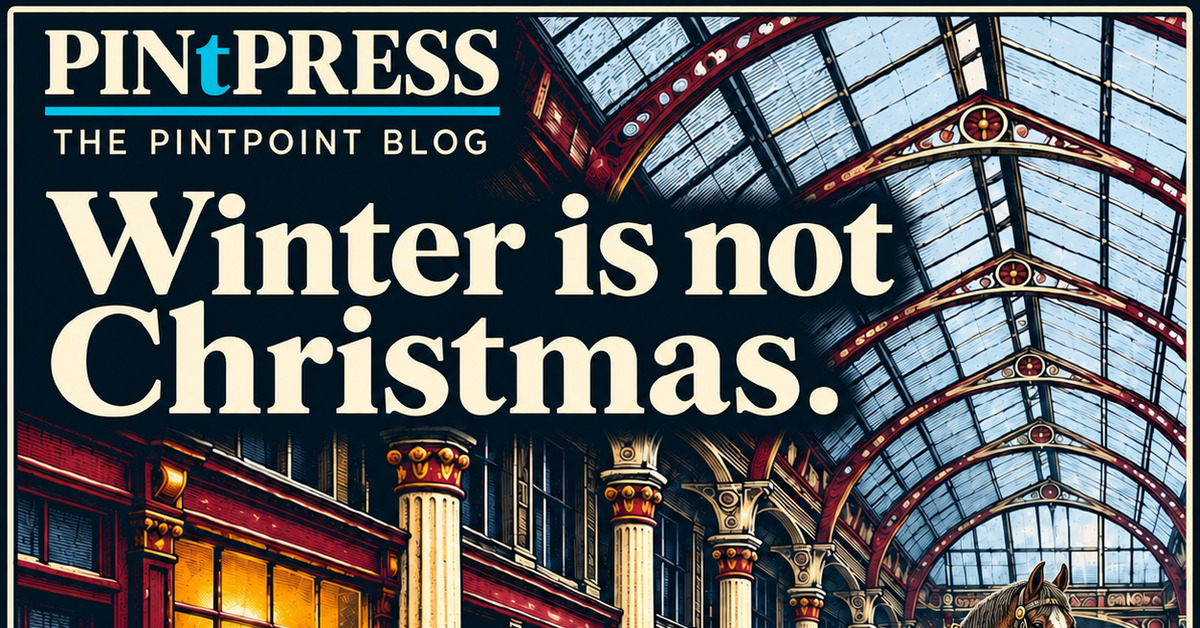
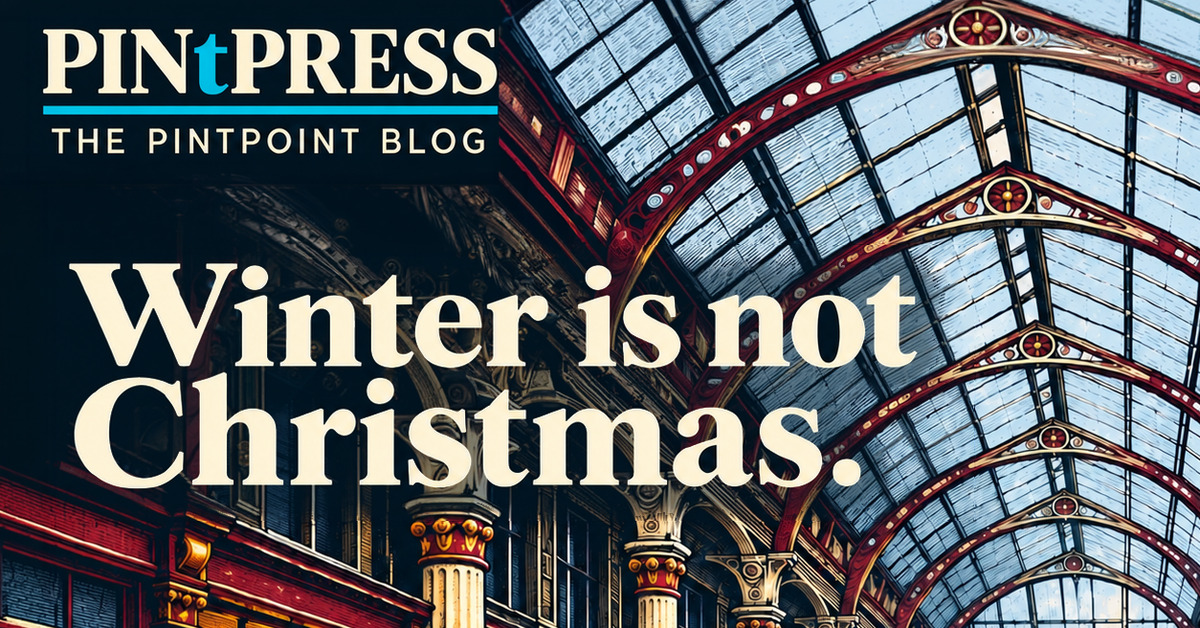
Winter is not Christmas: the Leadenhall version
Full bleed, no frame, which brings this card into line with J-Dag and
Green Man rather than being the only one with a cream rule. The border
questions from 1091d6b and 858deb6 are moot.

The composition drops, so the forced 1200x628 crop no longer catches
the horse head in the corner: the landscape is lockup, headline, roof
and columns, clean to every edge.

The alt goes back to describing the roof, the columns and the headline,
without the horse and cask. They are in the square, but og:image and
twitter:image both point at the landscape, and the landscape does not
contain them.

diff --git a/blog/drafts/winter-is-not-christmas.html b/blog/drafts/winter-is-not-christmas.html
@@ -17,7 +17,7 @@
   <meta property="og:image:height" content="628" />
   <meta property="og:image:type" content="image/jpeg" />
   <meta property="og:image" content="https://pintpoint.co.uk/blog/images/winter-is-not-christmas-x.jpg" />
-  <meta property="og:image:alt" content="PINtPRESS card: the glazed roof and painted cast-iron columns of a Victorian market arcade under an overcast sky, a shire horse beside a wooden cask on a stillage, and the headline across the left." />
+  <meta property="og:image:alt" content="PINtPRESS card: the glazed roof and painted cast-iron columns of a Victorian market arcade under an overcast sky, with the headline across the left." />
   <meta name="twitter:card" content="summary_large_image" />
   <meta name="twitter:image" content="https://pintpoint.co.uk/blog/images/winter-is-not-christmas-x.jpg" />
   <link rel="preconnect" href="https://fonts.googleapis.com" />
